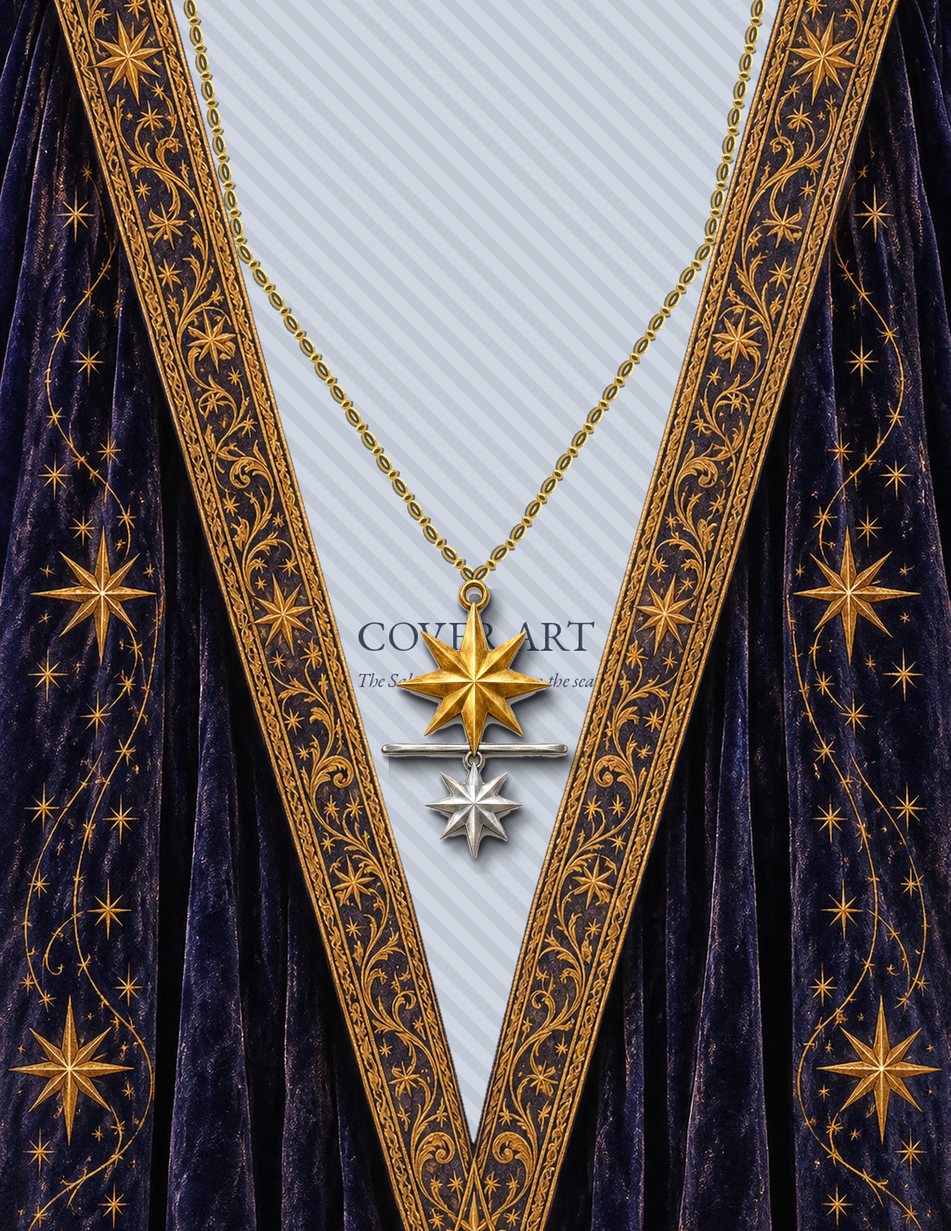
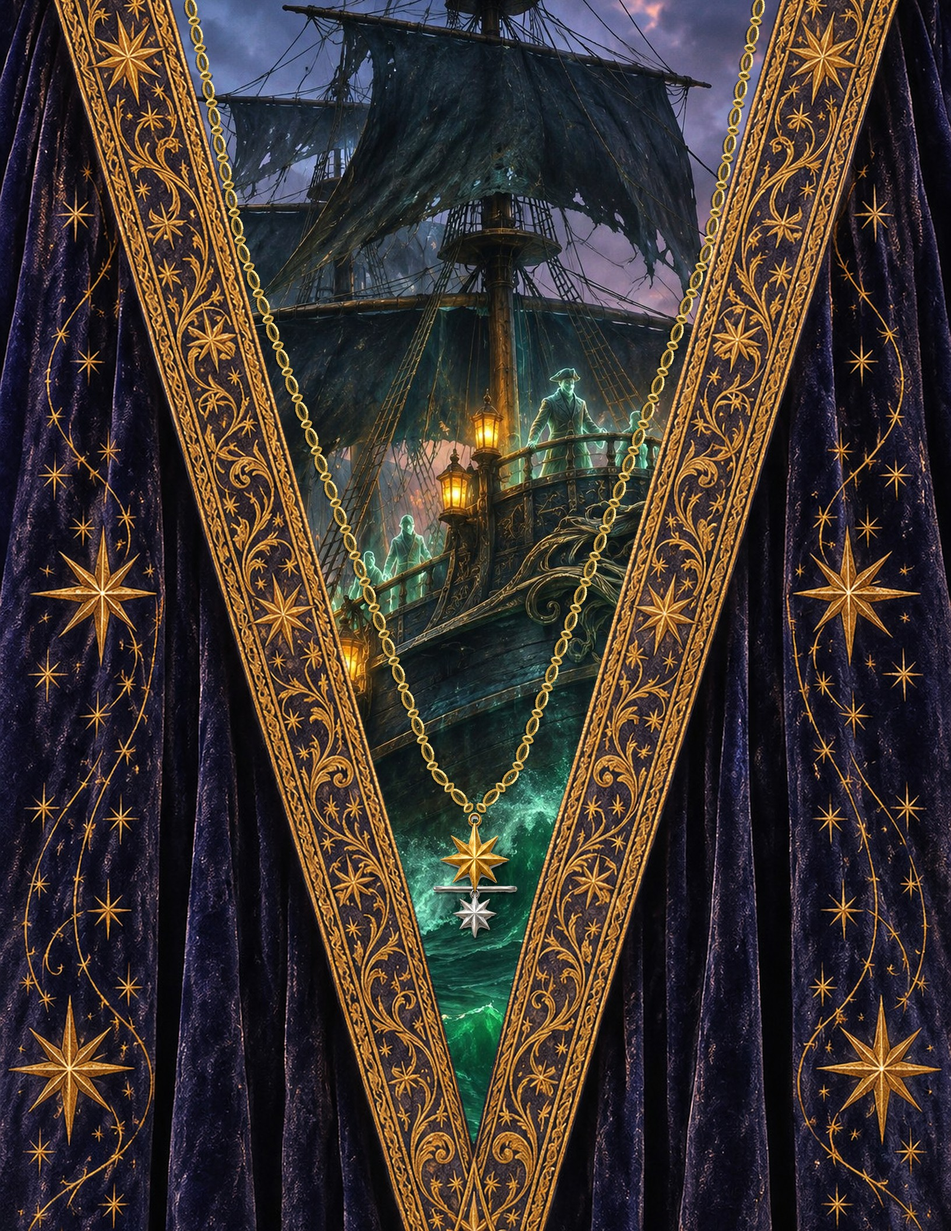
Thirteenth Tide: final art and GM map
Claude-Session: https://claude.ai/code/session_01QqMC3jV4Jm9bLjV1D99fiy

Changed region(s): [[0.1562, 0.0, 0.8438, 0.9375]]

diff --git a/oneshots/thirteenth-tide/homebrewery-source.md b/oneshots/thirteenth-tide/homebrewery-source.md
@@ -437,7 +437,7 @@
 <li><strong>The story</strong>: the night the Saltgrave sank, which every tavern on the coast will want to hear.</li>
 </ul></div></div></div><div class="folio-footer"><span>The Thirteenth Tide</span><span>17</span></div>
 \page
-<div class="pf-body oo-fill"><img alt="" src="https://oberonandomegaid.github.io/aelderia/oneshots/thirteenth-tide/img/full-sea.jpg"></div>
+<div class="pf-body oo-fill"><img alt="" src="https://oberonandomegaid.github.io/aelderia/oneshots/thirteenth-tide/img/full-act1.jpg"></div>
 \page
 <div class="running" style="--accent:#2f5a5a"><span>The Thirteenth Tide</span><span>GM · QUICK REFERENCE</span></div><div class="pf-body columns" style="--accent:#2f5a5a"><div class="layout-cols"><div class="flow-col"><h2>GM quick reference</h2>
 <h3>The fixed rules</h3>
@@ -658,7 +658,7 @@
 <p><strong>Grimsby Vale.</strong> First mate. Loyal to Rook to the end.</p>
 <p><strong>Saul and Netta.</strong> Xanthos’s sailors. Steady and curious.</p></div></div></div><div class="folio-footer"><span>The Thirteenth Tide</span><span>21</span></div>
 \page
-<div class="pf-body oo-fill"><img alt="" src="https://oberonandomegaid.github.io/aelderia/oneshots/thirteenth-tide/img/full-act1.jpg"></div>
+<div class="pf-body oo-fill"><img alt="" src="https://oberonandomegaid.github.io/aelderia/oneshots/thirteenth-tide/img/full-act3.jpg"></div>
 \page
 <div class="running" style="--accent:#2f5a5a"><span>The Thirteenth Tide</span><span>PLAYER HANDOUT</span></div><div class="pf-body columns handout-page oo-prop" style="--accent:#2f5a5a"><div class="layout-cols"><div class="flow-col"><p class="map-eyebrow">PLAYER HANDOUT 1</p><h3>Tobiah’s notes</h3><p><em>A sheaf of damp pages, written in a neat, careful hand that grows shakier towards the end.</em></p>
 <p><strong>Notes on the Saltgrave. T. Fennimore.</strong></p>
